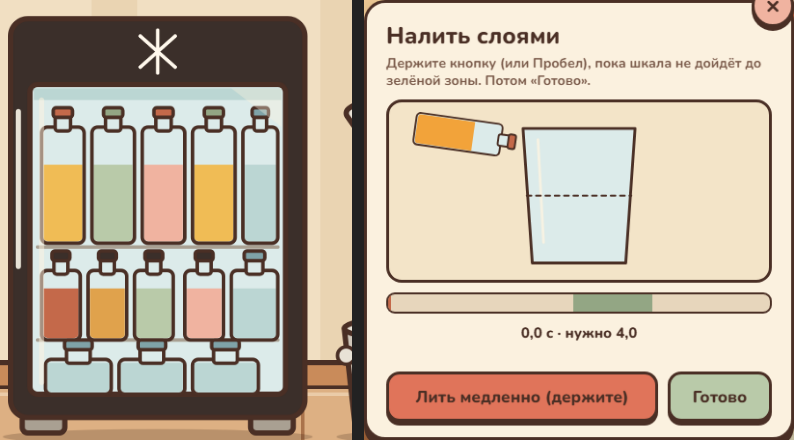
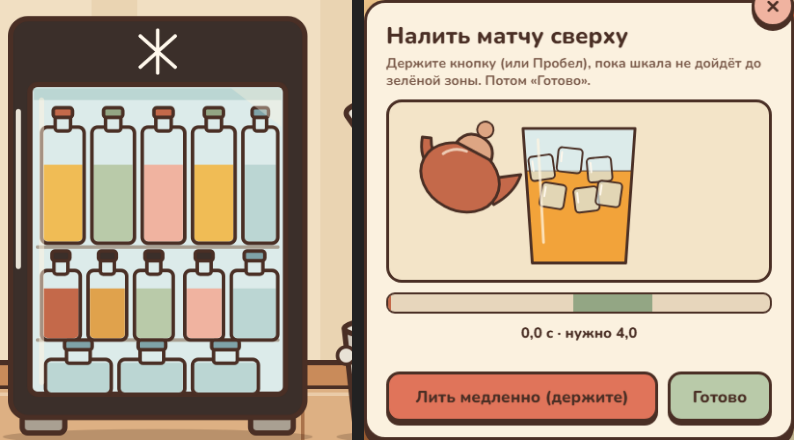
31-2 шаг 4: «Налить слоями» — слои по одному из спецификации, узнаваемый кувшин, подпись называет компонент, layerView

Changed region(s): [[0.5139, 0.2364, 0.8161, 0.6205], [0.6045, 0.0591, 0.7859, 0.1182]]

diff --git a/src/ui/panelArt.ts b/src/ui/panelArt.ts
@@ -6,11 +6,14 @@
  */
 import LEFT from '../assets/art/bar-parts-left.json';
 import RIGHT from '../assets/art/bar-parts-right.json';
+import CENTER from '../assets/art/bar-parts.json';
 import PAL from '../../art-src/palette.json';
+import { layerSourceOf, layerView } from '../game/layers';
 
 type Part = { svg: string };
 const PARTS_L = LEFT as unknown as Record<string, Part>;
 const PARTS_R = RIGHT as unknown as Record<string, Part>;
+const PARTS_C = CENTER as unknown as Record<string, Part>;
 const C = PAL.colors as Record<string, string>;
 const W = PAL.stroke as { L: number; M: number; D: number };
 /** Предметы боковых секций нарисованы в проектных единицах и раскладываются обёртками ×1,10: толщины в JSON = L/M/D ÷ 1,1. */
@@ -35,7 +38,7 @@ export function groupOf(svg: string, marker: string): string {
 
 /** Предмет бара по метке; сторона секции определяется по части. */
 export function barObject(part: string, marker: string): string {
-  const src = (part in PARTS_L ? PARTS_L : PARTS_R)[part];
+  const src = (part in PARTS_L ? PARTS_L : part in PARTS_R ? PARTS_R : PARTS_C)[part];
   if (!src) throw new Error('нет части ' + part);
   return groupOf(src.svg, marker);
 }
@@ -48,10 +51,11 @@ export function fillCounts(svg: string): [string, number][] {
 }
 
 /** Предмет в сцену окна: левый верхний угол рамки `box` встаёт в (x, y), масштаб k, поворот `rot` градусов вокруг центра рамки. */
-export function place(obj: string, box: Box, x: number, y: number, k: number, extra = '', rot = 0): string {
-  const body = obj.replace(/stroke-width="([\d.]+)"/g, (_m, v: string) => `stroke-width="${((Number(v) * SRC_SCALE) / k).toFixed(2)}"`);
+export function place(obj: string, box: Box, x: number, y: number, k: number, extra = '', rot = 0, o: { flip?: boolean; src?: number } = {}): string {
+  const srcScale = o.src ?? SRC_SCALE;
+  const body = obj.replace(/stroke-width="([\d.]+)"/g, (_m, v: string) => `stroke-width="${((Number(v) * srcScale) / k).toFixed(2)}"`);
   const cx = box.x + box.w / 2, cy = box.y + box.h / 2;
-  const r = rot ? ` rotate(${rot} ${cx} ${cy})` : '';
+  const r = (o.flip ? ` translate(${cx} 0) scale(-1 1) translate(${-cx} 0)` : '') + (rot ? ` rotate(${rot} ${cx} ${cy})` : '');
   return `<g data-k="${k}" ${extra} transform="translate(${(x - box.x * k).toFixed(2)} ${(y - box.y * k).toFixed(2)}) scale(${k})${r}">${body}</g>`;
 }
 
@@ -72,12 +76,14 @@ function cup(liq: string, extra = ''): string {
 }
 
 /** Струя: узкая лента цвета наливаемого (без контура), от носика (x1, y1) к стакану (x2, y2). */
-const stream = (x1: number, y1: number, x2: number, y2: number, c: string): string => {
+export function streamD(x1: number, y1: number, x2: number, y2: number): string {
   const len = Math.hypot(x2 - x1, y2 - y1) || 1;
   const nx = (-(y2 - y1) / len) * 3, ny = ((x2 - x1) / len) * 3;
-  const pt = (x: number, y: number): string => `${(x).toFixed(1)} ${(y).toFixed(1)}`;
-  return `<path id="xpStream" class="xpStream" d="M${pt(x1 + nx, y1 + ny)}L${pt(x2 + nx * 0.6, y2 + ny * 0.6)}L${pt(x2 - nx * 0.6, y2 - ny * 0.6)}L${pt(x1 - nx, y1 - ny)}Z" fill="${c}" stroke="none"/>`;
-};
+  const pt = (x: number, y: number): string => `${x.toFixed(1)} ${y.toFixed(1)}`;
+  return `M${pt(x1 + nx, y1 + ny)}L${pt(x2 + nx * 0.6, y2 + ny * 0.6)}L${pt(x2 - nx * 0.6, y2 - ny * 0.6)}L${pt(x1 - nx, y1 - ny)}Z`;
+}
+const stream = (x1: number, y1: number, x2: number, y2: number, c: string): string =>
+  `<path id="xpStream" class="xpStream" data-sx="${x1}" data-sy="${y1}" data-ex="${x2}" d="${streamD(x1, y1, x2, y2)}" fill="${c}" stroke="none"/>`;
 
 const dots = (c: string, xs: number[], y0 = 46): string =>
   `<g id="xpDots" class="xpDots" fill="${c}" stroke="${INK}" ${sw('D')}>${xs.map((x, i) => `<circle cx="${x}" cy="${y0 + (i % 3) * 18}" r="4.5" style="animation-delay:${(i * 0.11).toFixed(2)}s"/>`).join('')}</g>`;
@@ -140,15 +146,16 @@ function backPath(vessel: string): string {
 /** Убрать у предмета встроенный налив/слой (его рисует окно), оставив всё остальное. */
 const without = (svg: string, re: RegExp): string => svg.replace(re, '');
 
-export interface ArtOpts { task: string; col: string; col2: string; drink?: string }
+export interface ArtOpts { task: string; col: string; col2: string; drink?: string; size?: string; cold?: boolean }
 
 /** Иллюстрация к шагу. Налив растёт через #xpLiq (его высоту ставит panelUpdate по data-top / data-full). */
 export function panelArt(o: ArtOpts): string {
   const { task, col: c, col2: c2, drink } = o;
   switch (task) {
+    case 'layer':
+      return layerArt(drink ?? 'orange_bumble', o.size ?? '0.3', o.cold ?? true);
     case 'juice':
-    case 'tonic':
-    case 'layer': {
+    case 'tonic': {
       const cap = task === 'tonic' ? 'SAGE' : 'TERRA';
       return `<g ${WRAP}>${cup(c)}<g class="xpTilt">${place(bottleSvg(c, cap), bottleBox(), 61, -19, 1.55, '', 98)}</g>${stream(134, 47, 182, 104, c)}</g>`;
     }
@@ -235,4 +242,34 @@ ${place(empty, BOX.teapot, tx, ty, k)}
     default:
       return `<g ${WRAP}>${cup(c)}</g>`;
   }
+}
+
+/** Окно «Налить слоями»: нижние слои (сок, тоник) налиты и неподвижны, верхний (эспрессо или матча) льётся из кувшина и растёт до конца шага. */
+const LAYER_BASE = 172;
+const LAYER_FULL = 124;
+const ICE_CUBES: [number, number, number][] = [[160, 70, -8], [190, 62, 6], [222, 72, -5], [172, 100, 9], [208, 104, -7], [232, 98, 8]];
+function layerArt(drink: string, size: string, cold: boolean): string {
+  const lv = layerView(drink, 0, size as never, cold);
+  let y = LAYER_BASE;
+  const base: string[] = [];
+  for (const l of lv.slice(0, -1)) {
+    const h = l.share * LAYER_FULL;
+    base.push(`<rect x="130" y="${(y - h).toFixed(1)}" width="140" height="${h.toFixed(1)}" fill="${l.color}"/>`);
+    y -= h;
+  }
+  const top = lv[lv.length - 1] as (typeof lv)[number];
+  const topFull = top.share * LAYER_FULL;
+  const cubes = ICE_CUBES.map(([cx, cy, r]) => `<g transform="rotate(${r} ${cx} ${cy})"><rect x="${cx - 13}" y="${cy - 13}" width="26" height="26" rx="4" fill="${col('GLASS')}" fill-opacity=".7" ${sw('D')}/><path d="M${cx - 9} ${cy - 8}V${cy + 2}" fill="none" stroke="${col('PAPER')}" ${sw('D')}/></g>`).join('');
+  const matcha = layerSourceOf(drink) === 'matcha';
+  const pourer = matcha
+    ? place(groupOf(PARTS_L.matcha?.svg ?? '', 'data-item="kyusu"'), { x: 436, y: 438, w: 64, h: 60 }, 24, 14, 1.75, '', 28)
+    : place(groupOf(PARTS_C.pitFront?.svg ?? '', 'transform="translate(940 514)"'), { x: 903, y: 434, w: 83, h: 78 }, 22, 16, 1.4, '', -32, { flip: true, src: 1 });
+  const sx = matcha ? 124 : 126, sy = matcha ? 70 : 62;
+  return `<g ${WRAP}><defs><clipPath id="xpClip"><path d="${CUP_PATH}"/></clipPath></defs>
+<path d="${CUP_PATH}" fill="${col('GLASS')}" stroke="none"/>
+<g clip-path="url(#xpClip)">${base.join('')}<rect id="xpLayer" data-top="${y.toFixed(1)}" data-full="${topFull.toFixed(1)}" x="130" y="${y.toFixed(1)}" width="140" height="0" fill="${top.color}"/>${cubes}</g>
+<path d="${CUP_PATH}" fill="none" ${sw('M')}/>
+<path d="M156 40L162 150" fill="none" stroke="${col('HILITE')}" stroke-opacity=".75" ${sw('M')}/>
+<path id="xpMark" d="M0 0" opacity="0"/>
+<g class="xpTilt">${pourer}</g>${stream(sx, sy, 176, y, top.color)}</g>`;
 }

diff --git a/e2e/layer_shot.js b/e2e/layer_shot.js
@@ -1,0 +1,32 @@
+/* Окно «Налить слоями»: кадры начала, середины и конца налива верхнего слоя (кнопка удерживается настоящей мышью). Инструмент для глаз.
+   node e2e/layer_shot.js dist/artifact.html out/layers [напитки через запятую] */
+const { chromium } = require('playwright'); const path = require('path'); const fs = require('fs');
+const PW = require('./pw');
+const out = path.resolve(process.argv[3] || 'out/layers'); fs.mkdirSync(out, { recursive: true });
+const drinks = (process.argv[4] || 'matcha_bumble,orange_bumble,espresso_tonic').split(',');
+(async () => {
+  const src = fs.readFileSync(path.resolve(process.argv[2]), 'utf8').replace('newGame(); updateHud(); showTitle();', 'newGame(); updateHud(); showTitle(); window.__dbg = { get G() { return G; }, get D() { return D; }, get BR() { return BR; }, spawn, barOpen, zoneClick, applyUpgrades, camGo, resetBar() { try { barShow(false); } catch (e) { /* нет бара */ } BR = null; } };');
+  const tmp = path.resolve(process.argv[2]).replace('.html', '.dbg.html'); fs.writeFileSync(tmp, src);
+  const b = await chromium.launch({ args: ['--mute-audio'] });
+  const p = await PW.page(b, { width: 1312, height: 752 });
+  p.on('pageerror', e => console.log('PAGEERROR', e.message));
+  await p.goto(PW.url(tmp) + '#dev'); await p.waitForSelector('[data-sandbox]', { timeout: 60000 }); await p.waitForTimeout(400);
+  await p.evaluate(() => window.__sandbox.start({ day: 10, profile: 'medium' })); await p.waitForSelector('#screen', { state: 'hidden', timeout: 20000 });
+  await p.evaluate(() => { const d = __dbg; ['tea', 'matcha', 'powders', 'juice', 'whipper', 'foamer', 'blender', 'boba', 'shaker'].forEach(k => { d.G['eq_' + k] = true; }); d.G.eq_ice = true; d.G.milk = true; d.G.tutOff = true; d.applyUpgrades(); });
+  await p.waitForFunction(() => __dbg.D.customers[0] && __dbg.D.customers[0].arrived, null, { timeout: 90000 });
+  for (const id of drinks) {
+    await p.evaluate(() => { if (__dbg.D) __dbg.D.t = Math.min(__dbg.D.t, 60); __dbg.resetBar(); }); await p.waitForTimeout(150);
+    await p.evaluate(({ id }) => { const M = window.__MENUAPI, c = __dbg.D.customers[0], dk = M.drinkById[id]; c.drink = id; c.order.key = id; c.order.id = id; c.order.name = dk.name; c.order.size = '0.3'; c.order.cold = true; c.order.food = null; c.syrup = null; c.pumps = 0; c.strong = false; c.pat = c.max = 1e9; __dbg.barOpen(c); }, { id });
+    await p.waitForTimeout(450); await PW.dismissCard(p);
+    await p.evaluate(() => { const B = __dbg.BR; for (const t of B.tasks) { if (t === 'layer') break; B.done[t] = true; B.res[t] = 1; } });
+    await p.evaluate(() => __dbg.camGo('C', true)); await p.waitForTimeout(250);
+    await p.evaluate(() => __dbg.zoneClick('layer')); await p.waitForTimeout(700); await PW.dismissCard(p); await p.waitForTimeout(300);
+    const el = await p.$('#xPanel:not([hidden])'); if (!el) { console.log('нет окна', id); continue; }
+    const shot = n => el.screenshot({ path: `${out}/layer_${id}_${n}.png` });
+    await shot('start');
+    const r = await p.evaluate(() => { const e = document.querySelector('[data-xhold]').getBoundingClientRect(); return { x: e.left + e.width / 2, y: e.top + e.height / 2 }; });
+    await p.mouse.move(r.x, r.y); await p.mouse.down(); await p.waitForTimeout(1900); await shot('mid'); await p.waitForTimeout(2200); await shot('end'); await p.mouse.up();
+    console.log('ok', id, await p.evaluate(() => JSON.stringify([document.querySelector('.xp h3,.xpHead b')?.textContent, document.querySelector('#xpRead')?.textContent])));
+  }
+  fs.unlinkSync(tmp); await b.close();
+})();

diff --git a/test/layers.test.ts b/test/layers.test.ts
@@ -1,0 +1,51 @@
+import { describe, expect, test } from 'vitest';
+import { DRINKS } from '../src/game/menu';
+import { buildTasks, stepLabels } from '../src/game/recipes';
+import { sizesOf, specOf, variantsOf } from '../src/game/drinkModel';
+import { layerLabel, layerSourceOf, layerTitle, layerView } from '../src/game/layers';
+
+/** Напитки с шагом «layer»: все варианты, где buildTasks его даёт. */
+const withLayer = DRINKS.flatMap((d) => variantsOf(d).map((cold) => ({ d, cold }))).filter(({ d, cold }) => buildTasks(d.id, { cold, syrup: false }).includes('layer'));
+
+describe('шаг «Налить слоями» (31-2)', () => {
+  test('такие напитки есть: бамблы и тоники (5 штук)', () => {
+    expect(withLayer.map((x) => x.d.id).sort()).toEqual(['espresso_tonic', 'matcha_bumble', 'matcha_tonic', 'orange_bumble', 'pomegranate_bumble']);
+  });
+  test('layerView: цвета слоёв равны спецификации, активен ровно один (верхний), незавершённые не рисуются полностью', () => {
+    for (const { d, cold } of withLayer) {
+      for (const size of sizesOf(d.id, cold)) {
+        const spec = specOf(d.id, size, cold);
+        for (const p of [0, 0.25, 0.5, 0.99, 1]) {
+          const v = layerView(d.id, p, size, cold);
+          expect(v.map((l) => l.color), `${d.id} ${size}`).toEqual(spec.liquid.map((l) => l.color));
+          expect(v.filter((l) => l.active), `${d.id} ${size} p=${p}`).toHaveLength(1);
+          expect(v[v.length - 1]?.active).toBe(true);
+          for (const l of v.slice(0, -1)) expect(l.fill, 'нижние слои налиты целиком и неподвижны').toBeCloseTo(l.share, 9);
+          const top = v[v.length - 1] as (typeof v)[number];
+          expect(top.fill).toBeCloseTo(top.share * p, 9);
+          if (p < 1) expect(top.fill, `${d.id}: верхний слой при p=${p} не полный`).toBeLessThan(top.share);
+          expect(v.reduce((s, l) => s + l.share, 0)).toBeCloseTo(1, 3);
+        }
+      }
+    }
+  });
+  test('верхний слой матча-бамбла зелёный, а не коричневый; у эспрессо-напитков коричневый', () => {
+    expect(layerView('matcha_bumble', 1)[1]?.color).toBe('#8DAA4B');
+    expect(layerView('matcha_tonic', 1)[1]?.color).toBe('#8DAA4B');
+    expect(layerView('orange_bumble', 1)[1]?.color).toBe('#4A2E20');
+    expect(layerView('orange_bumble', 1)[0]?.color).toBe('#F2A33A');
+  });
+  test('заказ без такого варианта (горячий матча-бамбл 0,6 л) окно не роняет', () => {
+    expect(() => layerView('matcha_bumble', 0.5, '0.6', false)).not.toThrow();
+    expect(layerView('matcha_bumble', 0.5, '0.6', false)[1]?.color).toBe('#8DAA4B');
+  });
+  test('подпись и заголовок называют компонент', () => {
+    expect(layerSourceOf('matcha_bumble')).toBe('matcha');
+    expect(layerSourceOf('espresso_tonic')).toBe('espresso');
+    expect(layerLabel('matcha_bumble')).toBe('Матча сверху');
+    expect(layerTitle('matcha_tonic')).toBe('Налить матчу сверху');
+    expect(layerTitle('orange_bumble')).toBe('Налить эспрессо сверху');
+    expect(stepLabels(buildTasks('matcha_bumble', { cold: true, syrup: false }), 'matcha_bumble').pop()).toBe('Матча сверху');
+    expect(stepLabels(['ice', 'layer'], 'orange_bumble').pop()).toBe('Эспрессо сверху');
+  });
+});

diff --git a/test/panelArt.test.ts b/test/panelArt.test.ts
@@ -1,5 +1,6 @@
 import { describe, expect, test } from 'vitest';
 import PAL from '../art-src/palette.json';
+import { layerView } from '../src/game/layers';
 import { barObject, fillCounts, groupOf, jarFor, panelArt, sourceOf } from '../src/ui/panelArt';
 
 /* 31-2, шаг 3: окна станций нового ядра рисуются теми же предметами, что стоят на баре. Тест падает, если окно потеряло главные цвета
@@ -10,7 +11,9 @@ const TOKENS = [PAL.stroke.L, PAL.stroke.M, PAL.stroke.D];
 /** Заливки предмета, которые окно заменяет цветом напитка (налив вместо встроенного чая, порошок банки). */
 const REPLACED: Record<string, string[]> = { brew: ['TERRA', 'BAKE'], powder: ['CHOC'] };
 const col = (task: string): string => (task === 'powder' ? PAL.colors.CHOC : PAL.colors.MUSTARD);
-const art = (task: string, drink?: string): string => panelArt({ task, col: col(task), col2: PAL.colors.PAPER, drink });
+const art = (task: string, drink?: string): string => panelArt({ task, col: col(task), col2: PAL.colors.PAPER, drink: task === 'layer' ? 'orange_bumble' : drink });
+/** цвета слоёв — данные напитка (спецификация), не палитра */
+const specColors = new Set(layerView('orange_bumble', 1).map((l) => l.color.toLowerCase()));
 
 /** Строка без вложенных групп с масштабом (data-k): толщины внутри них проверяются отдельно (значение × k). */
 function split(svg: string): { flat: string; scaled: { k: number; body: string }[] } {
@@ -31,7 +34,7 @@ describe('окна станций: предметы бара', () => {
   for (const task of TASKS) {
     test(`${task}: цвета только из палитры, толщины только L/M/D`, () => {
       const svg = art(task, 'cocoa');
-      for (const m of svg.matchAll(/(?:fill|stroke)="(#[0-9a-fA-F]{6})"/g)) expect(colors.has((m[1] as string).toLowerCase()), `цвет ${m[1]}`).toBe(true);
+      for (const m of svg.matchAll(/(?:fill|stroke)="(#[0-9a-fA-F]{6})"/g)) expect(colors.has((m[1] as string).toLowerCase()) || (task === 'layer' && specColors.has((m[1] as string).toLowerCase())), `цвет ${m[1]}`).toBe(true);
       const { flat, scaled } = split(svg);
       for (const m of flat.matchAll(/stroke-width="([\d.]+)"/g)) expect(TOKENS, `толщина ${m[1]}`).toContain(Number(m[1]));
       for (const g of scaled) for (const m of g.body.matchAll(/stroke-width="([\d.]+)"/g)) {
@@ -55,7 +58,8 @@ describe('окна станций: предметы бара', () => {
   test('налив: у каждого окна есть #xpLiq с data-top и data-full; у окон «залить» есть #xpMark', () => {
     for (const t of TASKS) {
       const svg = art(t);
-      if (t !== 'whip') expect(svg, t).toMatch(/id="xpLiq" data-top="[\d.]+" data-full="[\d.]+"/);
+      if (t === 'layer') expect(svg, t).toMatch(/id="xpLayer" data-top="[\d.]+" data-full="[\d.]+"/);
+      else if (t !== 'whip') expect(svg, t).toMatch(/id="xpLiq" data-top="[\d.]+" data-full="[\d.]+"/);
     }
     for (const t of ['juice', 'tonic', 'powder', 'boba', 'topping']) expect(art(t), t).toMatch(/id="xpMark" data-top=/);
   });

diff --git a/src/game/layers.ts b/src/game/layers.ts
@@ -1,0 +1,46 @@
+/**
+ * Шаг «Налить слоями» (31-2): что льёт шаг, подпись и вид слоёв в окне станции. Чистая логика без DOM.
+ * Нижние слои (сок, тоник) налиты предыдущими шагами и в окне неподвижны; шаг выкладывает сверху ровно один слой: эспрессо или матчу.
+ */
+import { drinkById } from './menu';
+import { sizesOf, specOf, variantsOf } from './drinkModel';
+import type { Size } from './types';
+
+export type LayerSource = 'espresso' | 'matcha';
+
+/** Что выкладывает верхним слоем: матча, если напиток начинается со взбивания матчи, иначе эспрессо. */
+export function layerSourceOf(drinkId: string): LayerSource {
+  return drinkById[drinkId]?.steps.some((s) => s.st === 'whisk') ? 'matcha' : 'espresso';
+}
+
+const NAMES: Readonly<Record<LayerSource, { label: string; title: string }>> = {
+  espresso: { label: 'Эспрессо сверху', title: 'Налить эспрессо сверху' },
+  matcha: { label: 'Матча сверху', title: 'Налить матчу сверху' }
+};
+/** Подпись шага в билете и книге (называет компонент). */
+export const layerLabel = (drinkId: string): string => NAMES[layerSourceOf(drinkId)].label;
+/** Заголовок окна станции. */
+export const layerTitle = (drinkId: string): string => NAMES[layerSourceOf(drinkId)].title;
+
+export interface LayerView {
+  /** цвет слоя из спецификации напитка */
+  color: string;
+  /** доля столбца жидкости, сумма по слоям равна 1 */
+  share: number;
+  /** сколько из доли налито сейчас (нижние слои налиты целиком, верхний растёт с прогрессом) */
+  fill: number;
+  /** льётся сейчас: ровно один слой, верхний */
+  active: boolean;
+}
+
+/** Слои снизу вверх для окна. `progress` 0…1 — доля верхнего слоя, налитая сейчас. */
+export function layerView(drinkId: string, progress: number, size: Size = '0.3', cold = true): LayerView[] {
+  /* заказ, которого нет в меню (например холодный/горячий вариант, которого у напитка нет), не должен ронять окно: берём ближайший существующий */
+  const d = drinkById[drinkId];
+  const temp = d && !variantsOf(d).includes(cold) ? (variantsOf(d)[0] ?? cold) : cold;
+  const sz = sizesOf(drinkId, temp).includes(size) ? size : ((sizesOf(drinkId, temp)[0] ?? size) as Size);
+  const spec = specOf(drinkId, sz, temp);
+  const p = Math.min(1, Math.max(0, progress));
+  const last = spec.liquid.length - 1;
+  return spec.liquid.map((l, i) => ({ color: l.color, share: l.frac, fill: i === last ? l.frac * p : l.frac, active: i === last }));
+}

diff --git a/src/ui/stationPanel.ts b/src/ui/stationPanel.ts
@@ -3,13 +3,16 @@
  * HTML-панель в стиле игры с живой SVG-иллюстрацией; логика — в src/game/stations.
  */
 import { BREW_TEMPS } from '../game/stations/brew';
-import { panelArt } from './panelArt';
+import { panelArt, streamD } from './panelArt';
 
 export type PanelKind = 'fill' | 'timed' | 'brew';
 export interface PanelView {
   task: string;
   /** напиток заказа: выбирает банку порошков и т. п. */
   drink?: string;
+  /** размер и холодность заказа (окно «слои» берёт слои из спецификации напитка) */
+  size?: string;
+  cold?: boolean;
   kind: PanelKind;
   title: string;
   hint: string;
@@ -32,8 +35,8 @@ export interface PanelLive {
 }
 
 /** Иллюстрация к шагу: предметы бара (31-2), см. panelArt.ts. Налив растёт через #xpLiq (data-top / data-full ставит panelUpdate). */
-export function artFor(v: Pick<PanelView, 'task' | 'col' | 'col2' | 'drink'>): string {
-  return panelArt({ task: v.task, col: v.col, col2: v.col2, drink: v.drink });
+export function artFor(v: Pick<PanelView, 'task' | 'col' | 'col2' | 'drink' | 'size' | 'cold'>): string {
+  return panelArt({ task: v.task, col: v.col, col2: v.col2, drink: v.drink, size: v.size, cold: v.cold });
 }
 
 const f1 = (n: number) => n.toFixed(1).replace('.', ',');
@@ -78,6 +81,17 @@ export function panelUpdate(root: HTMLElement, v: PanelView, l: PanelLive): void
     const h = Math.min(full, frac * full);
     liq.setAttribute('y', (top - h).toFixed(1));
     liq.setAttribute('height', h.toFixed(1));
+  }
+  /* «Налить слоями»: верхний слой растёт за время цели, нижние налиты заранее; струя кончается на поверхности */
+  const lay = root.querySelector<SVGGraphicsElement>('#xpLayer');
+  if (lay) {
+    const p = Math.min(1, l.value / ((v.zone[0] + v.zone[1]) / 2));
+    const top = Number(lay.getAttribute('data-top'));
+    const full = Number(lay.getAttribute('data-full'));
+    lay.setAttribute('y', (top - full * p).toFixed(1));
+    lay.setAttribute('height', (full * p).toFixed(1));
+    const st = root.querySelector<SVGPathElement>('#xpStream');
+    if (st) st.setAttribute('d', streamD(Number(st.getAttribute('data-sx')), Number(st.getAttribute('data-sy')), Number(st.getAttribute('data-ex')), top - full * p));
   }
   const mark = root.querySelector<SVGPathElement>('#xpMark');
   if (mark && v.kind === 'fill') {

diff --git a/src/game/content/generated.ts b/src/game/content/generated.ts
@@ -1045,7 +1045,7 @@ export const COACH_LINES: Readonly<Record<string, string>> = {
  "powder": "Нажмите «Полка порошков» и насыпьте порошок.",
  "boba": "Нажмите «Станция бабл ти» и положите шарики в стакан.",
  "topping": "Нажмите «Чашка» и добавьте топпинг поверх напитка.",
- "layer": "Нажмите «Чашка» и налейте слои один за другим.",
+ "layer": "Нажмите «Чашка» и налейте верхний слой медленно.",
  "blend": "Нажмите «Блендер» и взбейте всё до гладкой смеси.",
  "shake": "Нажмите «Шейкер» и встряхните напиток.",
  "foam": "Нажмите «Миксер для пенок» и взбейте холодную пенку.",

diff --git a/src/legacy/06-bar.js b/src/legacy/06-bar.js
@@ -374,7 +374,7 @@ function xOpen(t) {
     const col = { whisk: pal.matcha, blend: pal.blend, shake: B.tasks.includes('powder') ? pal.powder : pal.blend, foam: '#C99B6E', whip: pal.foam, layer: B.tasks.includes('tonic') ? pal.tonic : pal.juice }[t];
     v = { kind: 'timed', max: tg * 1.7, zone: [tg - tol, tg + tol], col, col2: pal.foam, holdLabel: X_HOLD[t], hint: 'Держите кнопку (или Пробел), пока шкала не дойдёт до зелёной зоны. Потом «Готово».' };
   }
-  B.xv[t] = Object.assign({ task: t, drink: d, title: X_TITLE[t] }, v);
+  B.xv[t] = Object.assign({ task: t, drink: d, size: String(size), cold: !!B.c.order.cold, title: t === 'layer' ? MENUAPI.layerTitle(d) : X_TITLE[t] }, v);
 }
 function xRender(B) {
   const t = B.inset, st = B.xs[t], v = B.xv[t]; if (!st || !v) return;

diff --git a/src/game/recipes.ts b/src/game/recipes.ts
@@ -1,4 +1,5 @@
 import { MILKY_OLD, drinkById, drinkOfKey } from './menu';
+import { layerLabel } from './layers';
 import type { Drink, Size } from './types';
 import { SAUCE_G, SPICE_G, cupScale, recipeNumbers } from './volumes';
 
@@ -244,7 +245,7 @@ export function stepLabels(tasks: readonly string[], drinkId = ''): string[] {
   const raf = drinkById[drinkOfKey(drinkId).id]?.family === 'raf';
   return tasks.map((t) => {
     seen[t] = (seen[t] ?? 0) + 1;
-    const name = t === 'milk' && raf ? 'Сливки' : (TASK_NAME[t] ?? t);
+    const name = t === 'milk' && raf ? 'Сливки' : t === 'layer' ? layerLabel(drinkId) : (TASK_NAME[t] ?? t);
     return (total[t] ?? 1) > 1 ? `${name} ${seen[t]}/${total[t]}` : name;
   });
 }

diff --git a/src/game/api.ts b/src/game/api.ts
@@ -10,6 +10,7 @@ export * from './save';
 export * from './settings';
 export * from './tutorial';
 export * from './contrast';
+export * from './layers';
 export * from './lessons';
 export * from './why';
 export * from './content';

diff --git a/docs/content/guide.md b/docs/content/guide.md
@@ -457,7 +457,7 @@
 
 ### coach:layer — Чашка
 
-Реплика: Нажмите «Чашка» и налейте слои один за другим.
+Реплика: Нажмите «Чашка» и налейте верхний слой медленно.
 
 ### coach:blend — Блендер
 
